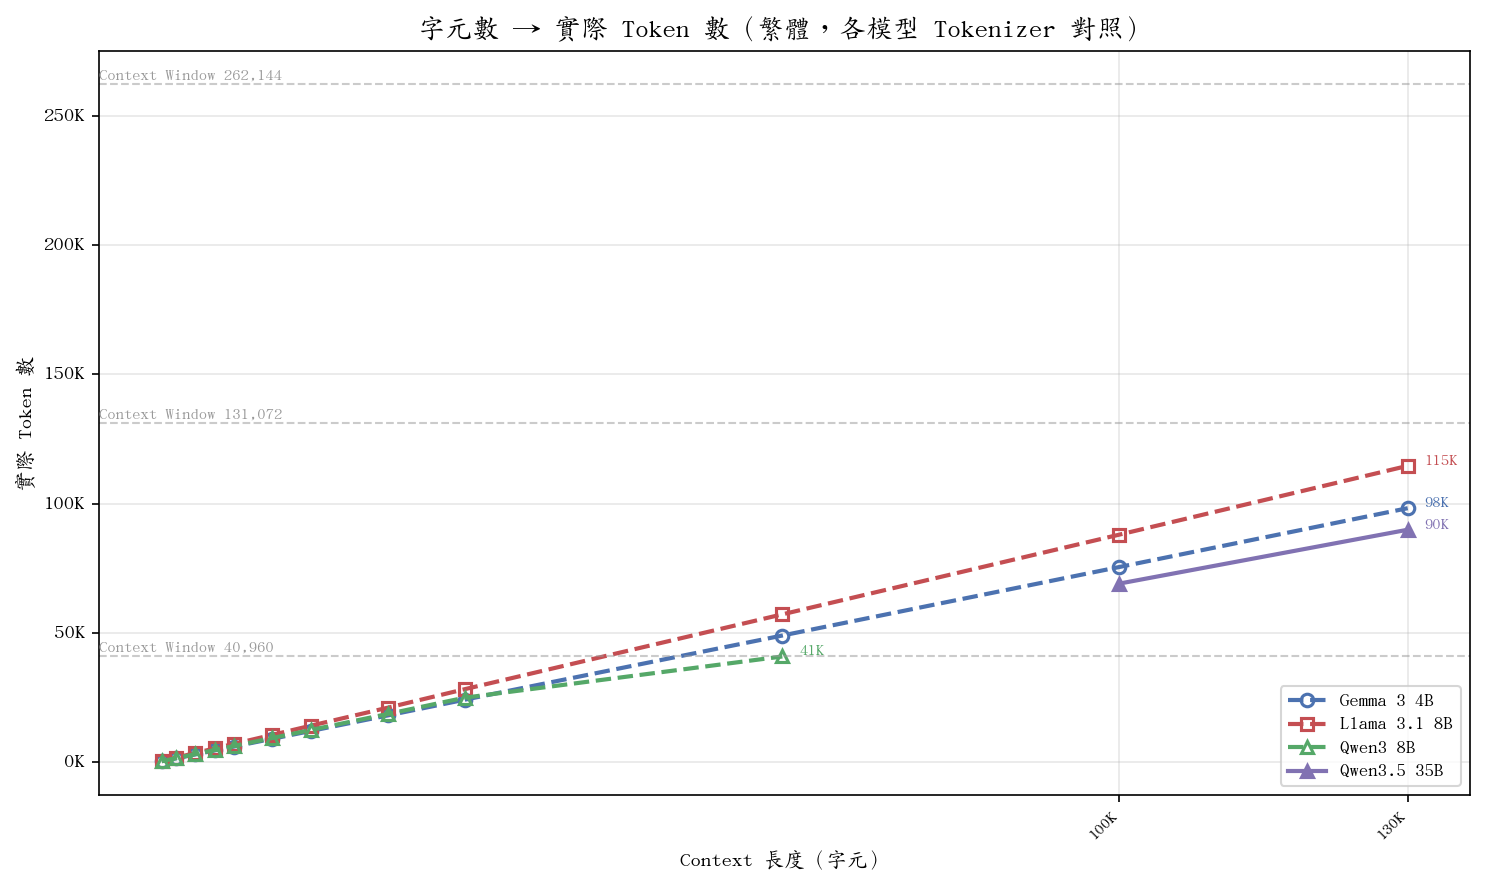
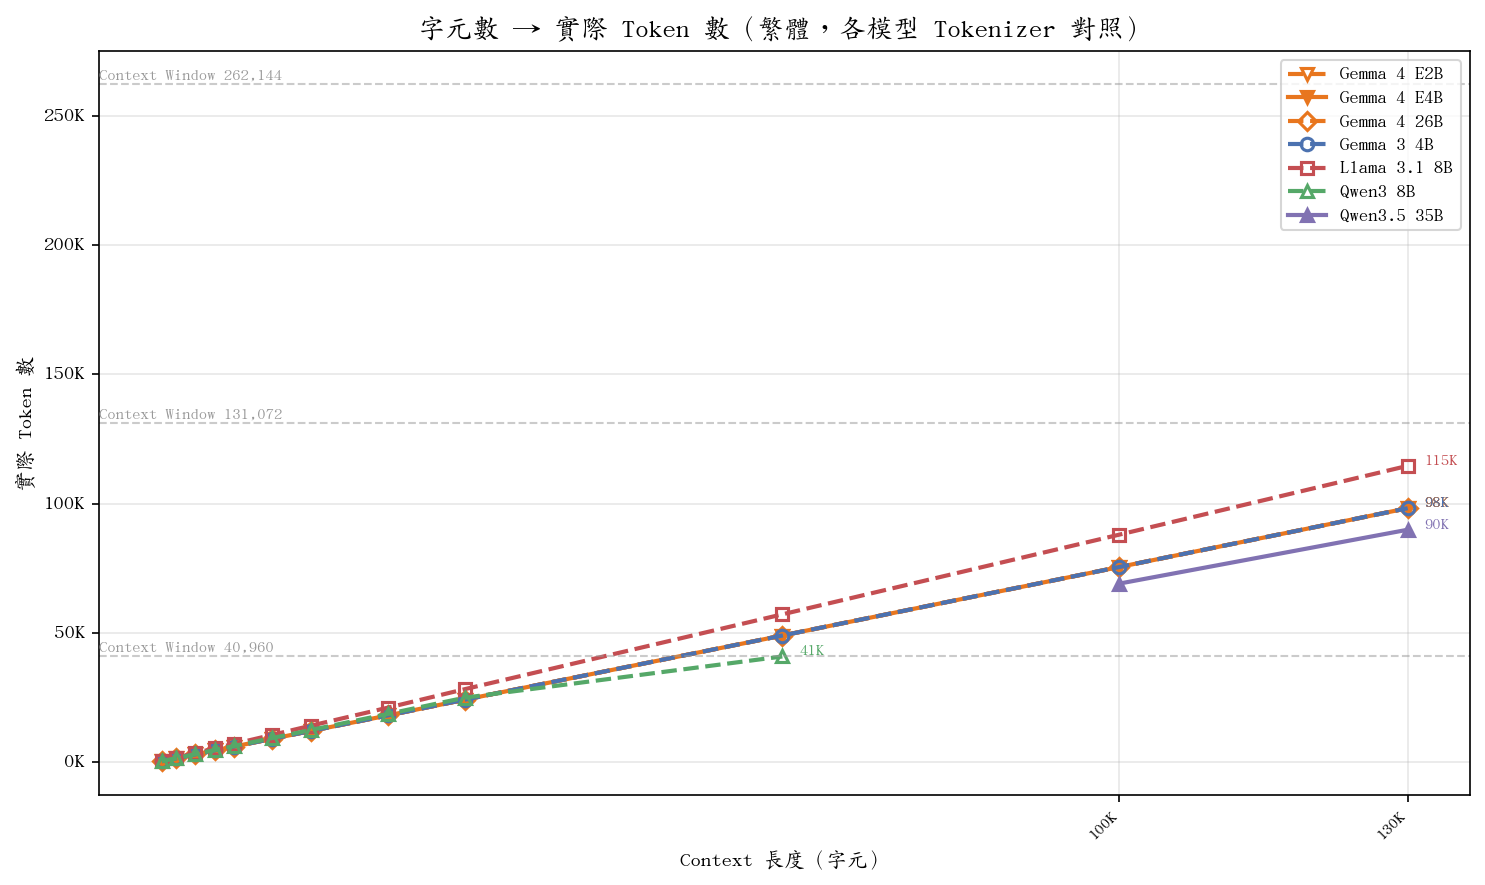
分析更新：gemma4:e2b/e4b/26b 完整結果，README 新增圖表與關鍵發現
[email redacted]

diff --git a/README.md b/README.md
@@ -63,20 +63,22 @@ Needle 是插入 haystack 中的虛構事實句，模型需從長文中找到該
 
 | 模型 | 大小 | Context Window | Thinking |
 |------|------|---------------|---------|
+| gemma3:1b | 1B | 131,072 | — |
 | gemma3:4b | 4B | 131,072 | — |
-| llama3.1:8b | 8B | 131,072 | — |
-| qwen3:8b | 8B | 40,960 | ✓（關閉）|
-| qwen3.5:35b | 35B | 262,144 | ✓（關閉）|
+| gemma3:12b | 12B | 131,072 | — |
 | gemma3:27b | 27B | 131,072 | — |
-| llama3.3:70b | 70B | 131,072 | — |
 | gemma4:e2b | 2B（edge）| 131,072 | ✓（關閉）|
 | gemma4:e4b | 4B（edge）| 131,072 | ✓（關閉）|
 | gemma4:26b | 26B（MoE, 4B active）| 262,144 | ✓（關閉）|
 | gemma4:31b | 31B（dense）| 262,144 | ✓（關閉）|
+| llama3.1:8b | 8B | 131,072 | — |
+| llama3.3:70b | 70B | 131,072 | — |
+| qwen3:8b | 8B | 40,960 | ✓（關閉）|
 | qwen3.5:2b | 2B | 262,144 | ✓（關閉）|
 | qwen3.5:4b | 4B | 262,144 | ✓（關閉）|
 | qwen3.5:9b | 9B | 262,144 | ✓（關閉）|
 | qwen3.5:27b | 27B | 262,144 | ✓（關閉）|
+| qwen3.5:35b | 35B | 262,144 | ✓（關閉）|
 
 ## 環境需求
 
@@ -236,20 +238,22 @@ watch -n 5 bash scripts/watch_progress.sh
 
 | 模型 | 大小 | 繁問繁答 | 繁問簡答 | 簡問簡答 |
 |------|------|---------|---------|---------|
+| gemma4:e2b | E2B | 1,320 筆 ✓ | 進行中 | 進行中 |
+| gemma4:e4b | E4B | 1,320 筆 ✓ | 待執行 | 待執行 |
+| gemma4:26b | 26B | 1,320 筆 ✓ | 待執行 | 待執行 |
+| gemma4:31b | 31B | 進行中（100K 部分）| 待執行 | 待執行 |
+| qwen3.5:2b | 2B | 待執行 | 待執行 | 待執行 |
+| qwen3.5:4b | 4B | 待執行 | 待執行 | 待執行 |
+| qwen3.5:9b | 9B | 待執行 | 待執行 | 待執行 |
+| qwen3.5:27b | 27B | 待執行 | 待執行 | 待執行 |
+| qwen3.5:35b | 35B | 220 筆（100K+130K）| 待執行 | 待執行 |
+| gemma3:1b | 1B | 待執行 | 待執行 | 待執行 |
 | gemma3:4b | 4B | 1,320 筆 ✓ | 1,100 筆 ✓ | 1,100 筆 ✓ |
+| gemma3:12b | 12B | 待執行 | 待執行 | 待執行 |
+| gemma3:27b | 27B | 220 筆（100K+130K，資料異常⚠️）| 待執行 | 待執行 |
 | llama3.1:8b | 8B | 1,320 筆 ✓ | 1,100 筆 ✓ | 1,100 筆 ✓ |
-| qwen3:8b | 8B | 1,100 筆（500–65K）✓ | 125 筆（部分）| — |
-| qwen3.5:35b | 35B | 220 筆（100K+130K）| — | — |
-| gemma3:27b | 27B | 進行中 | — | — |
-| llama3.3:70b | 70B | 進行中（100K done）| — | — |
-| gemma4:e2b | E2B | 待執行（需更新 Ollama）| — | — |
-| gemma4:e4b | E4B | 待執行（需更新 Ollama）| — | — |
-| gemma4:26b | 26B | 待執行（需更新 Ollama）| — | — |
-| gemma4:31b | 31B | 待執行（需更新 Ollama）| — | — |
-| qwen3.5:2b | 2B | 待執行 | — | — |
-| qwen3.5:4b | 4B | 待執行 | — | — |
-| qwen3.5:9b | 9B | 待執行 | — | — |
-| qwen3.5:27b | 27B | 待執行 | — | — |
+| llama3.3:70b | 70B | 144 筆（100K + 130K 部分）| 待執行 | 待執行 |
+| qwen3:8b | 8B | 1,100 筆（500–65K）✓ | 125 筆（部分）| 待執行 |
 
 ## 結果（已完成部分）
 
@@ -259,14 +263,47 @@ watch -n 5 bash scripts/watch_progress.sh
 
 | 模型 | 繁問繁答 | 繁問簡答 | 簡問簡答 | Tokenizer Overhead |
 |------|---------|---------|---------|-------------------|
-| gemma3:4b | 91.6% | **99.1%** | 98.4% | +5.7% |
-| llama3.1:8b | 97.1% | **98.8%** | 99.1% | +7.1% |
-| qwen3:8b | 94.1%（≤32K 全滿，65K 崩潰）| 100.0%（部分） | — | +13.6% |
-| qwen3.5:35b | **100.0%**（100K+130K） | — | — | — |
+| gemma4:e2b | **99.8%** | — | — | — |
+| gemma4:e4b | **99.9%** | — | — | — |
+| gemma4:26b | **98.9%** | — | — | — |
+| qwen3.5:35b | **100.0%**（100K+130K）| — | — | — |
+| gemma3:4b | 91.6% | **99.1%** | 96.8% | +5.7% |
+| llama3.1:8b | 97.1% | **98.8%** | 95.3% | +7.1% |
+| qwen3:8b | 94.1%（≤32K 全滿，65K 崩潰）| 100.0%（部分）| — | +13.6% |
 
-> 繁問簡答 = 簡體 context + 繁體 question；簡問簡答 = 全簡體。兩者皆比繁問繁答更高，支持 tokenizer overhead 影響長 context 檢索的假說。
+> gemma4 系列（thinking 模型，以 prompt 注入關閉推理）在繁體中文長 context 下表現極佳。
 
 ### 準確率 vs Context 長度
+
+#### gemma4:e2b
+
+| 長度 | 繁問繁答 |
+|------|---------|
+| 500–24K | 100.0% |
+| 32K | 99.1% |
+| 65K | 100.0% |
+| 100K | 99.1% |
+| 130K | 100.0% |
+
+#### gemma4:e4b
+
+| 長度 | 繁問繁答 |
+|------|---------|
+| 500、4K–130K | 100.0% |
+| 2K | 99.1% |
+
+#### gemma4:26b
+
+| 長度 | 繁問繁答 |
+|------|---------|
+| 500–12K | 100.0% |
+| 16K | 99.1% |
+| 24K–32K | 100.0% |
+| 65K | 98.2% |
+| 100K | 97.3% |
+| 130K | 92.7% |
+
+> gemma4:26b（MoE 架構，4B active params）在 130K 字元下仍維持 92.7%，對比 gemma3:4b（dense 4B）同長度只有 52.7%，架構差異顯著。
 
 #### gemma3:4b
 
@@ -279,9 +316,9 @@ watch -n 5 bash scripts/watch_progress.sh
 | 8K | 100.0% | 100.0% | 100.0% |
 | 12K | 99.1% | 100.0% | 100.0% |
 | 16K | 97.3% | 97.3% | 98.2% |
-| 24K | 95.5% | 100.0% | 95.5% |
-| 32K | 98.2% | 100.0% | 97.3% |
-| 65K | 88.2% | **93.6%** | **92.7%** |
+| 24K | 95.5% | 100.0% | 90.9% |
+| 32K | 98.2% | 100.0% | 96.4% |
+| 65K | 88.2% | **93.6%** | 82.7% |
 | 100K | 68.2% | — | — |
 | 130K | 52.7% | — | — |
 
@@ -289,16 +326,16 @@ watch -n 5 bash scripts/watch_progress.sh
 
 | 長度 | 繁問繁答 | 繁問簡答 | 簡問簡答 |
 |------|---------|---------|---------|
-| 500 | 94.5% | 97.3% | 97.3% |
-| 2K | 98.2% | 99.1% | 99.1% |
-| 4K | 99.1% | 100.0% | 100.0% |
-| 6K | 100.0% | 100.0% | 100.0% |
-| 8K | 100.0% | 100.0% | 100.0% |
-| 12K | 100.0% | 100.0% | 100.0% |
-| 16K | 100.0% | 100.0% | 100.0% |
-| 24K | 100.0% | 100.0% | 100.0% |
-| 32K | 98.2% | 97.3% | 98.2% |
-| 65K | 92.7% | **94.5%** | **96.4%** |
+| 500 | 94.5% | 97.3% | 92.7% |
+| 2K | 98.2% | 99.1% | 95.5% |
+| 4K | 99.1% | 100.0% | 98.2% |
+| 6K | 100.0% | 100.0% | 98.2% |
+| 8K | 100.0% | 100.0% | 98.2% |
+| 12K | 100.0% | 100.0% | 99.1% |
+| 16K | 100.0% | 100.0% | 96.4% |
+| 24K | 100.0% | 100.0% | 94.5% |
+| 32K | 98.2% | 97.3% | 95.5% |
+| 65K | 92.7% | **94.5%** | 84.5% |
 | 100K | 90.9% | — | — |
 | 130K | 91.8% | — | — |
 
@@ -309,7 +346,7 @@ watch -n 5 bash scripts/watch_progress.sh
 | 500–32K | 100.0% | 穩定 |
 | **65K** | **40.9%** | ~36K tokens ≈ 88% context window，嚴重崩潰 |
 
-> qwen3:8b 的 context window 只有 40,960 tokens，65K 字元繁體（~36K tokens）已逼近上限。同時 tokenizer overhead 最高（+13.6%），導致比其他模型更快撞到限制。
+> qwen3:8b 的 context window 只有 40,960 tokens，65K 字元繁體（~36K tokens）已逼近上限，是 context window 截斷效應而非 context rot。
 
 #### qwen3.5:35b（繁問繁答，部分資料：僅 100K+130K）
 
@@ -318,31 +355,39 @@ watch -n 5 bash scripts/watch_progress.sh
 | 100K | **100.0%** | ~70K tokens，26% context window |
 | 130K | **100.0%** | ~91K tokens，35% context window |
 
-> 35B 模型（context window 262,144）在這兩個長度下完美命中，但短長度資料尚待補齊。
+#### llama3.3:70b（繁問繁答，部分資料：100K 完整 + 130K 部分）
+
+| 長度 | 繁問繁答 | 備註 |
+|------|---------|------|
+| 100K | 97.3% | 完整 110 筆 |
+| 130K | 67.7% | 34 筆（進行中）|
 
 ### 關鍵發現
 
-1. **繁體 context rot 假說得到支持（gemma3:4b 最明顯）**
+1. **gemma4 系列在長 context 下表現優異**
+   - gemma4:e2b（2B edge）全長度維持 99.8%，包含 130K
+   - gemma4:e4b（4B edge）幾乎全部 100%
+   - gemma4:26b（26B MoE）在 130K 仍有 92.7%，遠優於同 active params 的 gemma3:4b（52.7%）
+   - 推測 MoE 架構與 gemma4 訓練改善對長 context 有顯著幫助
+
+2. **繁體 context rot 假說在 gemma3:4b 得到支持**
    - 65K 字元下：繁問繁答 88.2% vs 繁問簡答 93.6%（差距 **+5.4pp**）
-   - 繁問簡答和簡問簡答一致優於繁問繁答，排除 question 語言干擾
    - llama3.1:8b 差距較小（+1.8pp），整體更穩健
+   - gemma4 系列差距目前尚無資料（繁問簡答/簡問簡答尚在執行中）
 
-2. **模型大小是長 context 穩健性的關鍵因素**
-   - 同為 100K 字元：gemma3:4b 68.2% vs llama3.1:8b 90.9%（差距 **22.7pp**）
-   - gemma3:4b 在 130K 崩潰至 52.7%；llama3.1:8b 仍維持 91.8%
-   - qwen3.5:35b 在 100K–130K 維持 100%（但 context window 更大，token 佔用率僅 35%）
+3. **模型大小是長 context 穩健性的關鍵因素（gemma3 系列內）**
+   - 100K：gemma3:4b 68.2% vs llama3.1:8b 90.9%（差距 **22.7pp**）
+   - 130K：gemma3:4b 崩潰至 52.7%；llama3.1:8b 仍維持 91.8%
 
-3. **qwen3:8b 的 context window 限制導致 65K 嚴重崩潰**
+4. **qwen3:8b 的 context window 限制導致 65K 嚴重崩潰**
    - 0–32K 全部 100%，65K 驟降至 40.9%（非漸進式衰退）
-   - 原因：tokenizer overhead 最高（+13.6%），65K 字元已佔 88% context window
-   - 這是 context window 截斷效應，而非一般性的 context rot
+   - tokenizer overhead 最高（+13.6%），65K 字元已佔 88% context window
 
-4. **Tokenizer overhead 與 context rot 敏感度正相關**
-   - qwen3:8b: +13.6% overhead → 最早撞上 context 限制
-   - llama3.1:8b: +7.1% overhead → 比 gemma3:4b (+5.7%) 更差但表現更好（模型品質補償）
+5. **gemma3:27b 資料異常（⚠️ 待重跑）**
+   - 100K+130K 結果幾乎全部為 `<pad>` token，推論過程異常，資料不可信
 
-5. **llama3.1:8b 在短 context（500 字元）準確率略低（94.5%）**
-   - 疑似短文本下模型傾向自由生成而非嚴格檢索 needle
+6. **llama3.3:70b 初步結果**
+   - 100K 達 97.3%，表現良好；130K 降至 67.7%（資料仍不完整）
 
 ### 圖表
 
@@ -361,6 +406,36 @@ watch -n 5 bash scripts/watch_progress.sh
 #### 65K 字元下各 Variant 準確率
 
 ![65K 準確率](results/plots/compare_65k_accuracy.png)
+
+#### gemma4:e2b 個別圖表
+
+![gemma4:e2b 準確率 vs 長度](results/plots/gemma4_e2b_accuracy_vs_length.png)
+
+![gemma4:e2b 準確率 vs 位置](results/plots/gemma4_e2b_accuracy_vs_position.png)
+
+![gemma4:e2b 熱力圖](results/plots/gemma4_e2b_heatmap.png)
+
+![gemma4:e2b Needle 準確率](results/plots/gemma4_e2b_needle_accuracy.png)
+
+#### gemma4:e4b 個別圖表
+
+![gemma4:e4b 準確率 vs 長度](results/plots/gemma4_e4b_accuracy_vs_length.png)
+
+![gemma4:e4b 準確率 vs 位置](results/plots/gemma4_e4b_accuracy_vs_position.png)
+
+![gemma4:e4b 熱力圖](results/plots/gemma4_e4b_heatmap.png)
+
+![gemma4:e4b Needle 準確率](results/plots/gemma4_e4b_needle_accuracy.png)
+
+#### gemma4:26b 個別圖表
+
+![gemma4:26b 準確率 vs 長度](results/plots/gemma4_26b_accuracy_vs_length.png)
+
+![gemma4:26b 準確率 vs 位置](results/plots/gemma4_26b_accuracy_vs_position.png)
+
+![gemma4:26b 熱力圖](results/plots/gemma4_26b_heatmap.png)
+
+![gemma4:26b Needle 準確率](results/plots/gemma4_26b_needle_accuracy.png)
 
 #### gemma3:4b 個別圖表
 